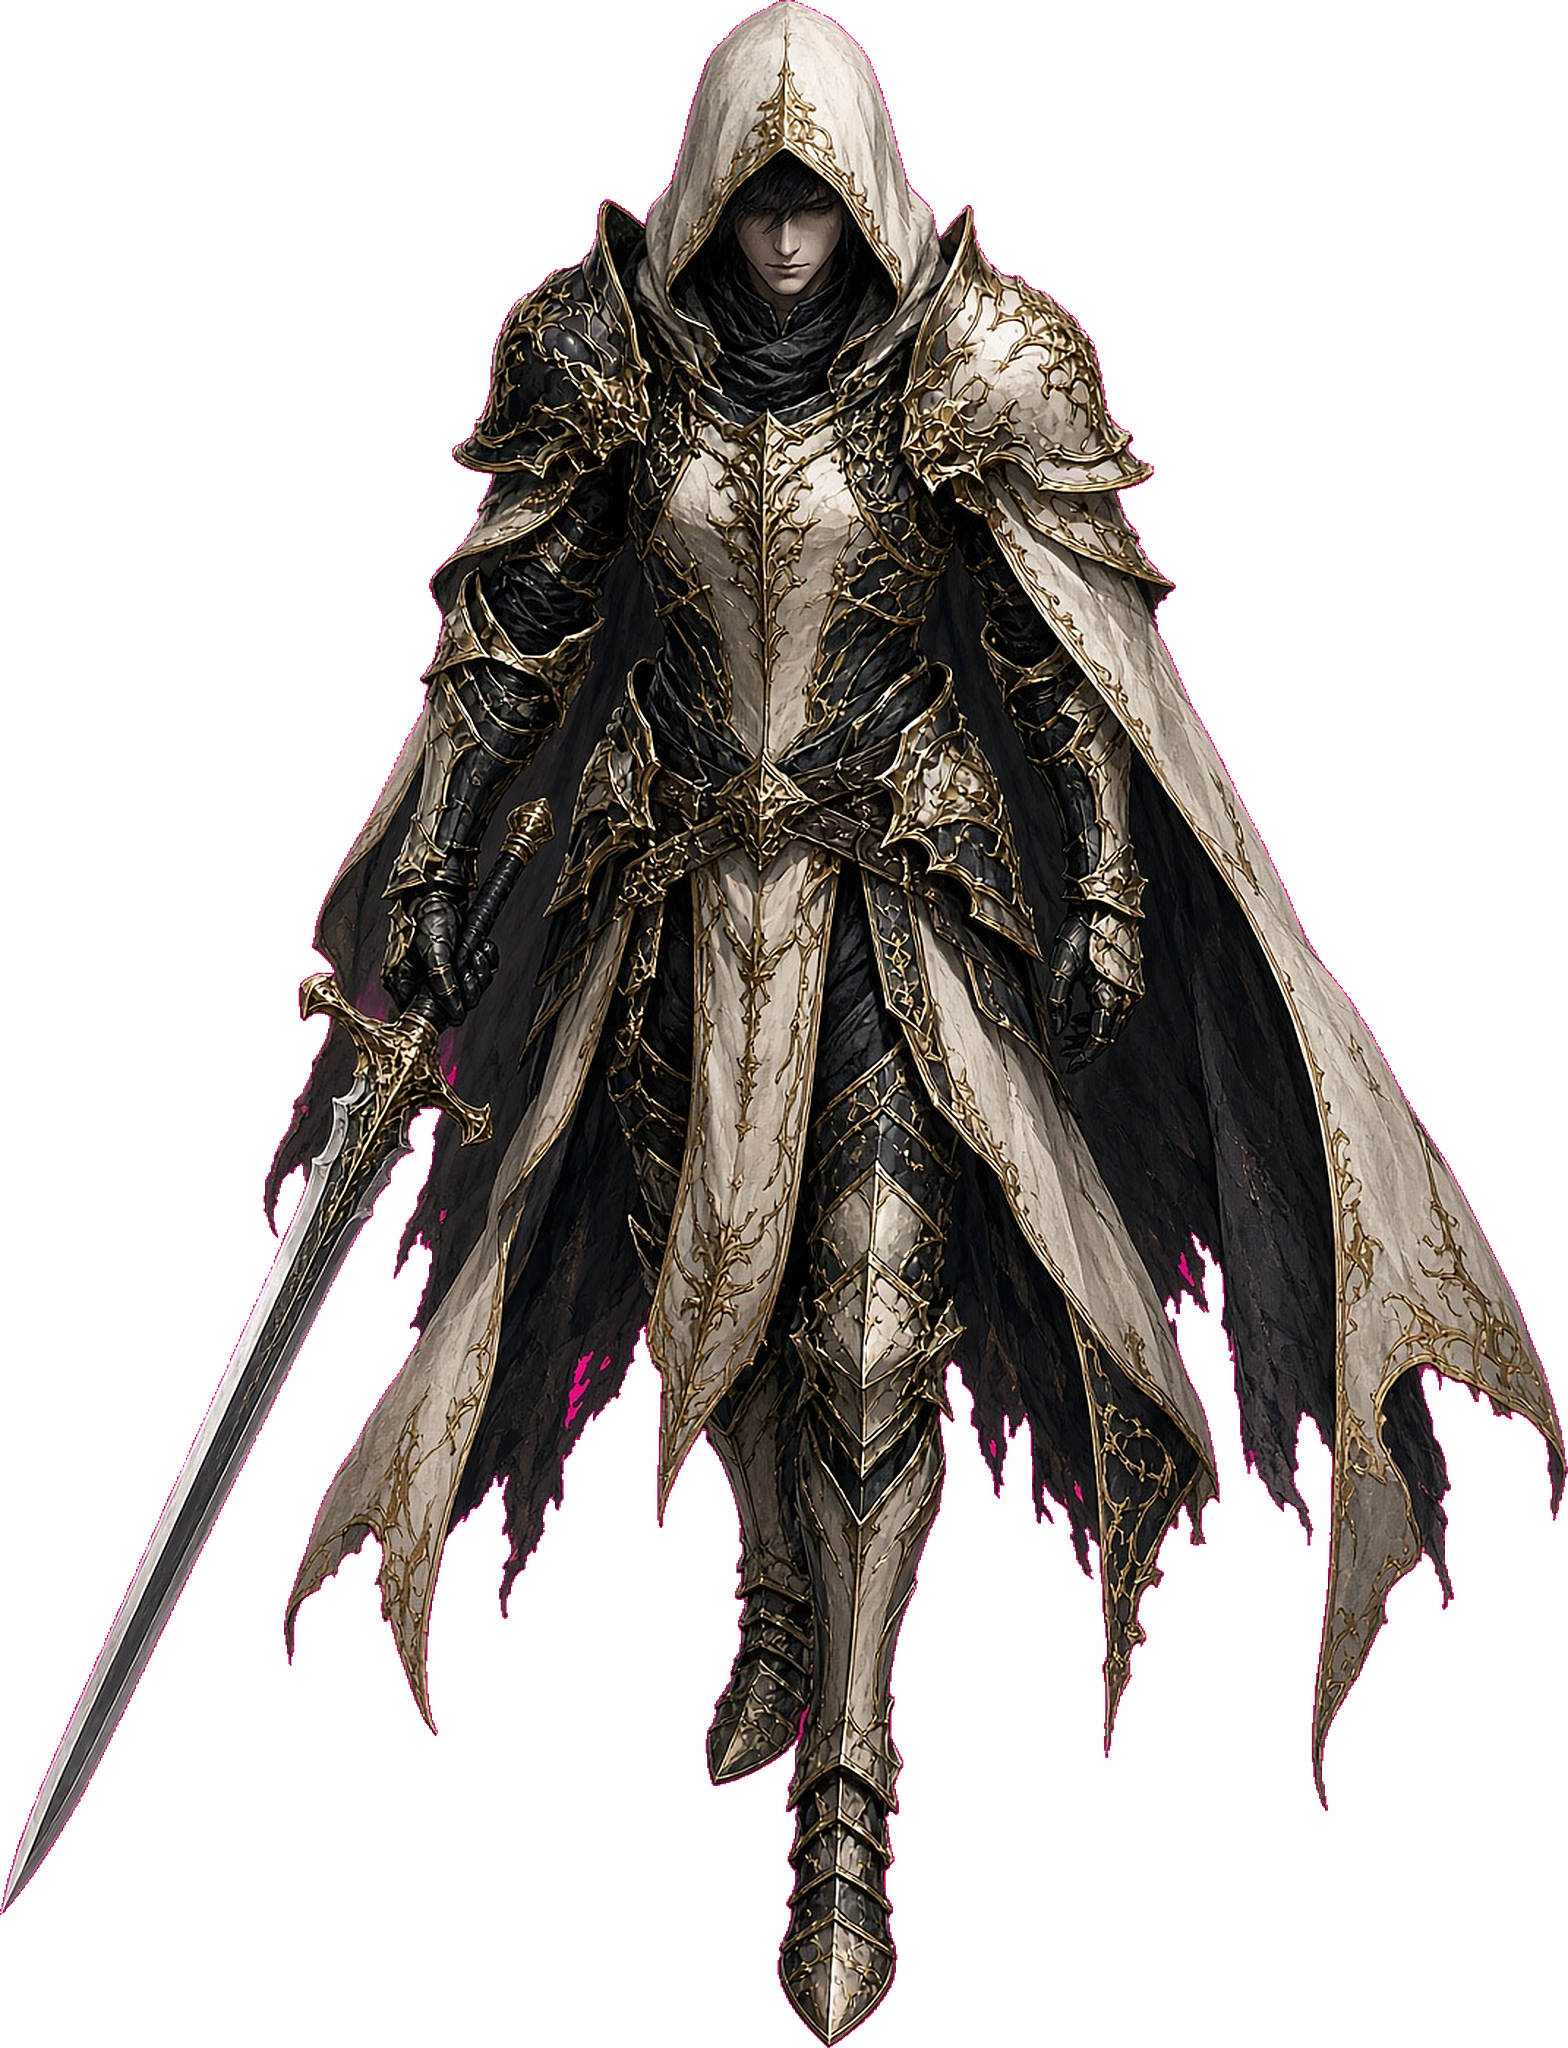
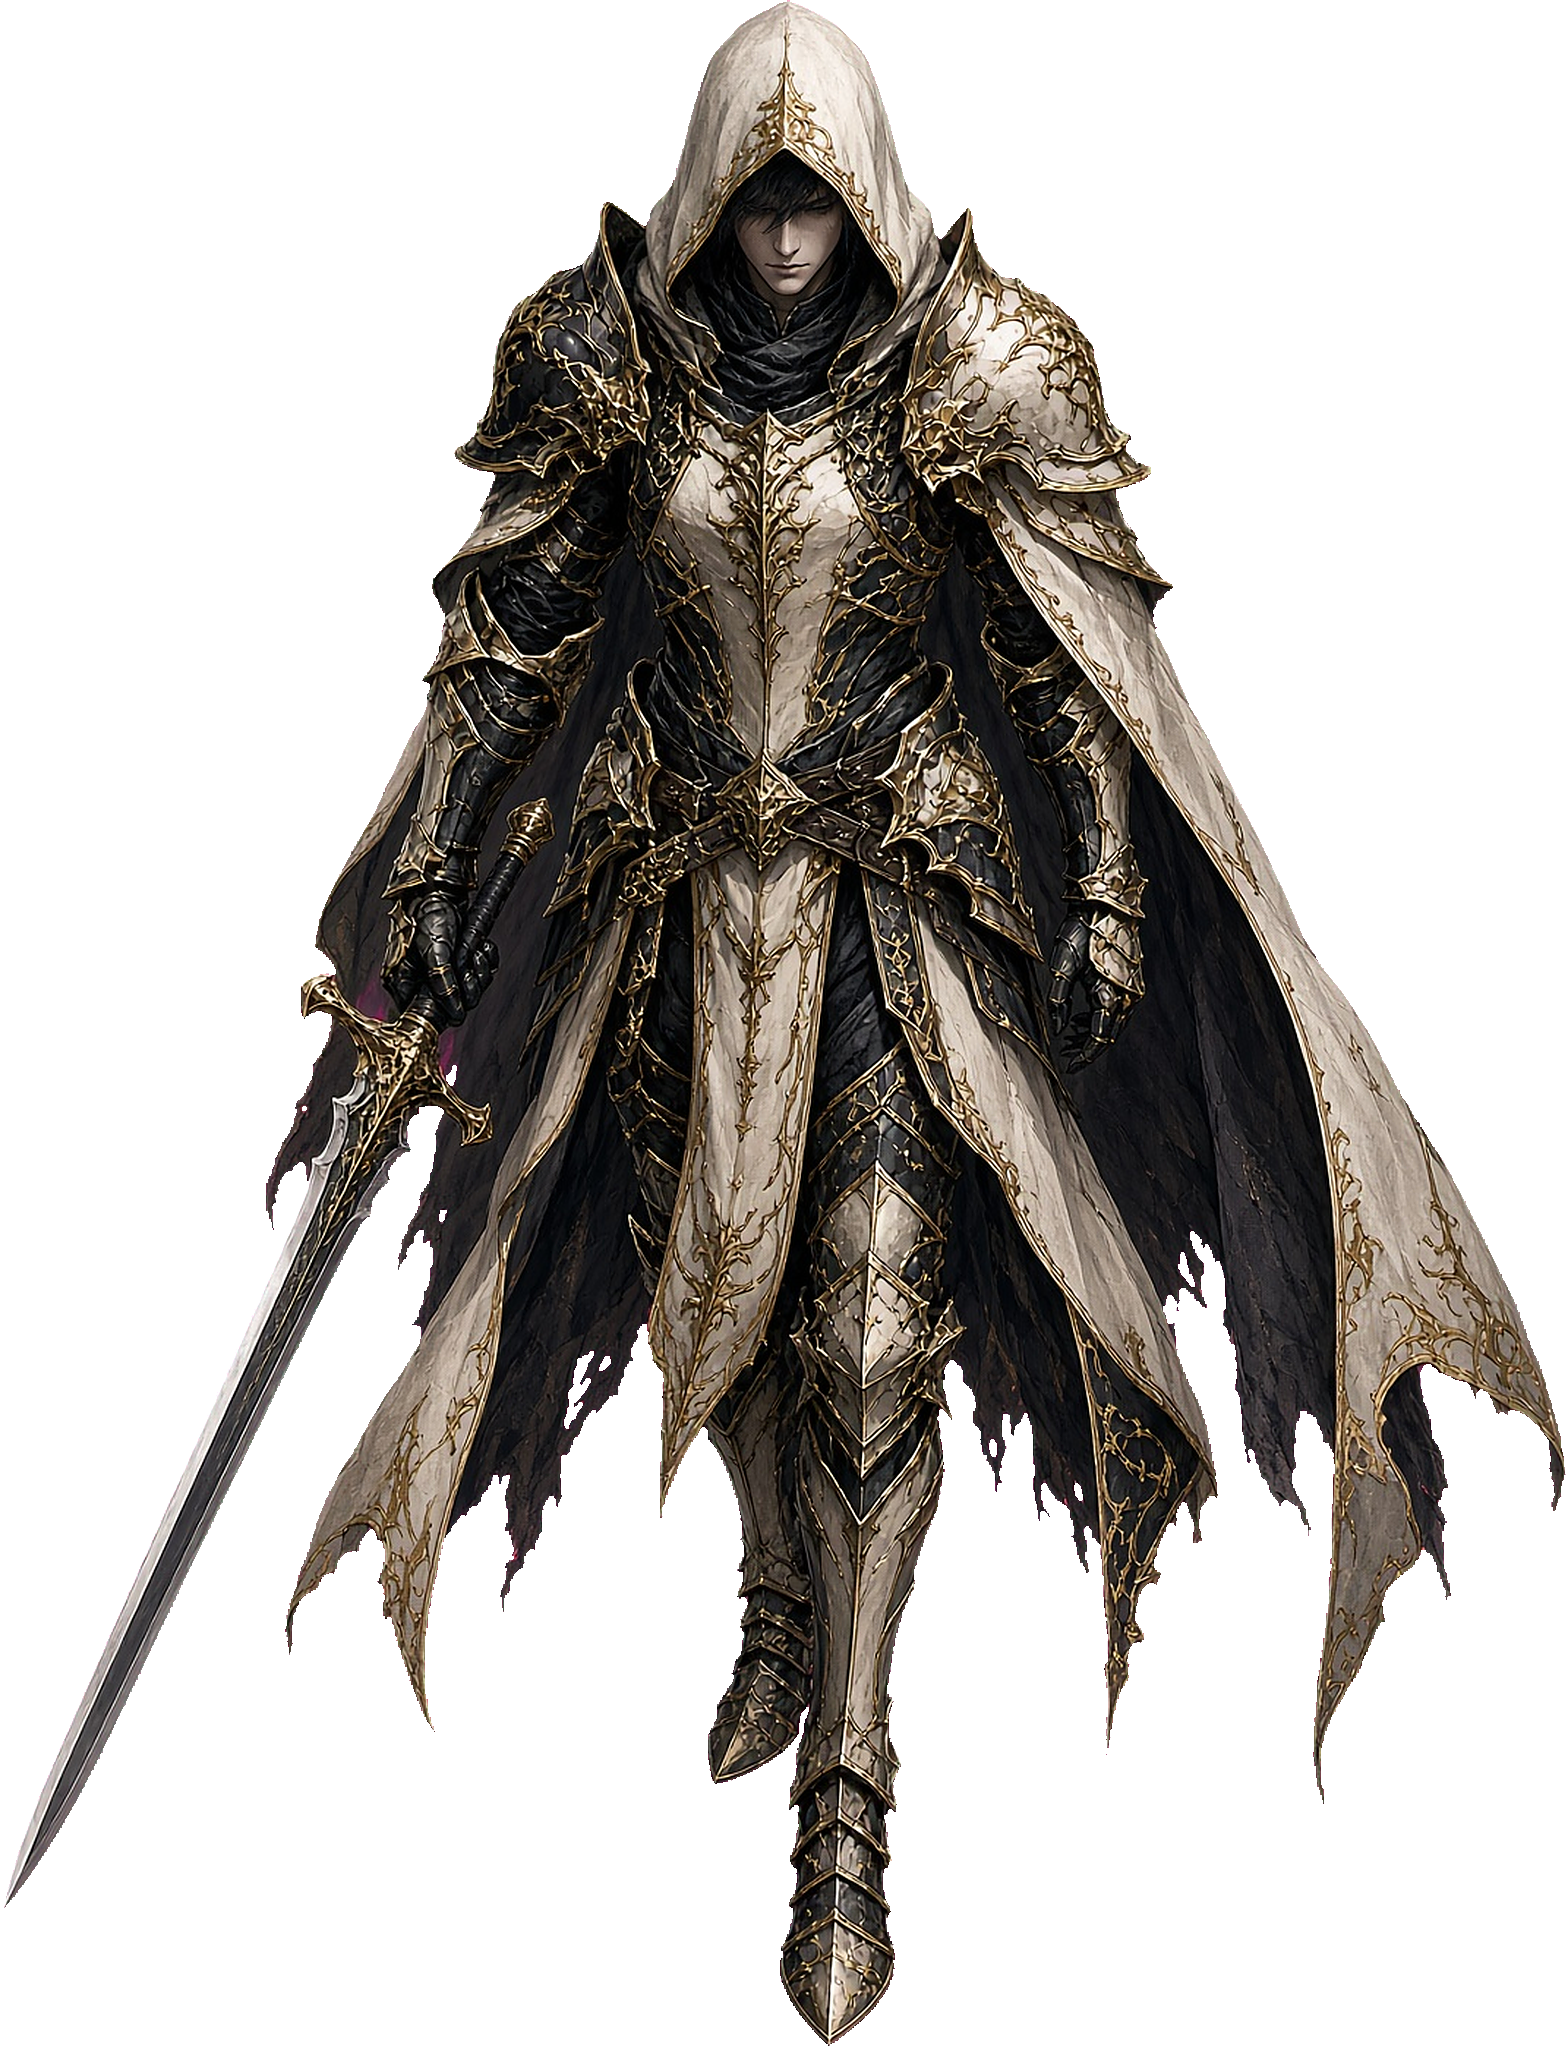
Remove the mirrored floor and the pink sprite edges

diff --git a/dungeon.js b/dungeon.js
@@ -172,7 +172,7 @@ class DungeonScene extends Phaser.Scene {
     const ix = w * (land ? 0.08 : 0.11);
     const iy = h * 0.13;
     this.physics.world.setBounds(ix, iy, w - ix * 2, h - iy - h * 0.16);
-    this.roomArt.setTexture(land ? "roomL" : "roomP");
+    this.roomArt.setTexture("floorimg");
     this.roomArt.setPosition(w / 2, h / 2);
     this.roomArt.setScale(Math.max(w / this.roomArt.width, h / this.roomArt.height));
     this.floorDim.setPosition(0, 0).setSize(w, h).setFillStyle(0x000000, 0);
@@ -234,7 +234,7 @@ class DungeonScene extends Phaser.Scene {
         const y = Phaser.Math.Clamp(p.y + (i % 2) * 12, h * 0.3, h * 0.6);
         const tex = p.kind === "boss" ? "titan" : p.kind === "elite" ? "knight" : "hound";
         const sprite = this.physics.add.sprite(x, y, tex).setDepth(6).setOrigin(0.5, 0.92);
-        const want = (p.kind === "boss" ? 0.34 : p.kind === "elite" ? 0.22 : 0.16) * h;
+        const want = (p.kind === "boss" ? 0.24 : p.kind === "elite" ? 0.13 : 0.085) * h;
         const sc = want / sprite.height;
         sprite.setScale(sc);
         sprite.body.setImmovable(true);
@@ -478,6 +478,7 @@ class DungeonScene extends Phaser.Scene {
   swingBlade(ang) {
     if (this.bladeTween) this.bladeTween.stop();
     const state = { a: ang - 1.7 };
+    this.bladeSwinging = true;
     this.bladeAngle = state.a;
     this.bladeTween = this.tweens.add({
       targets: state,
@@ -492,6 +493,7 @@ class DungeonScene extends Phaser.Scene {
           duration: 180,
           ease: "Sine.easeOut",
           onUpdate: () => { this.bladeAngle = state.a; },
+          onComplete: () => { this.bladeSwinging = false; },
         });
       },
     });
@@ -517,12 +519,14 @@ class DungeonScene extends Phaser.Scene {
       this.bladeEdge = this.add.rectangle(0, 0, 2, 58, 0xe7c56a).setOrigin(0.5, 0.08).setDepth(8);
       this.bladeAngle = 0.7;
     }
-    const handY = this.player.y - this.player.displayHeight * 0.38;
     const side = this.player.flipX ? -1 : 1;
-    const x = this.player.x + side * this.player.displayWidth * 0.12;
-    const len = Math.max(28, this.player.displayHeight * 0.78);
-    this.blade.setPosition(x, handY).setRotation(this.bladeAngle).setDisplaySize(Math.max(3, len * 0.07), len);
-    this.bladeEdge.setPosition(x, handY).setRotation(this.bladeAngle).setDisplaySize(Math.max(1.5, len * 0.025), len * 0.92);
+    const x = this.player.x + side * this.player.displayWidth * 0.34;
+    const handY = this.player.y - this.player.displayHeight * 0.62;
+    const len = Math.max(22, this.player.displayHeight * 0.7);
+    let ang = this.bladeAngle;
+    if (!this.bladeSwinging && this.player.flipX) ang = Math.PI - this.bladeAngle;
+    this.blade.setPosition(x, handY).setRotation(ang).setDisplaySize(Math.max(2, len * 0.06), len);
+    this.bladeEdge.setPosition(x, handY).setRotation(ang).setDisplaySize(Math.max(1, len * 0.02), len * 0.9);
   }
   toast(msg) {
     const t = this.add.text(this.scale.width / 2, 96, msg, {

diff --git a/index.html b/index.html
@@ -24,7 +24,7 @@
   <script src="https://cdn.jsdelivr.net/npm/phaser@3.87.0/dist/phaser.min.js"></script>
   <script src="core.js?v=15"></script>
   <script src="mall.js?v=15"></script>
-  <script src="dungeon.js?v=18"></script>
+  <script src="dungeon.js?v=19"></script>
   <script src="boot.js?v=17"></script>
   <script>
     if ("serviceWorker" in navigator) {

diff --git a/sw.js b/sw.js
@@ -1,11 +1,11 @@
-const CACHE = "unlimited-tiers-v18";
+const CACHE = "unlimited-tiers-v19";
 const SHELL = [
   "./",
   "./index.html",
   "./manifest.json",
   "./core.js?v=15",
   "./mall.js?v=15",
-  "./dungeon.js?v=18",
+  "./dungeon.js?v=19",
   "./boot.js?v=17",
   "./icon-192.png",
   "./icon-512.png",
